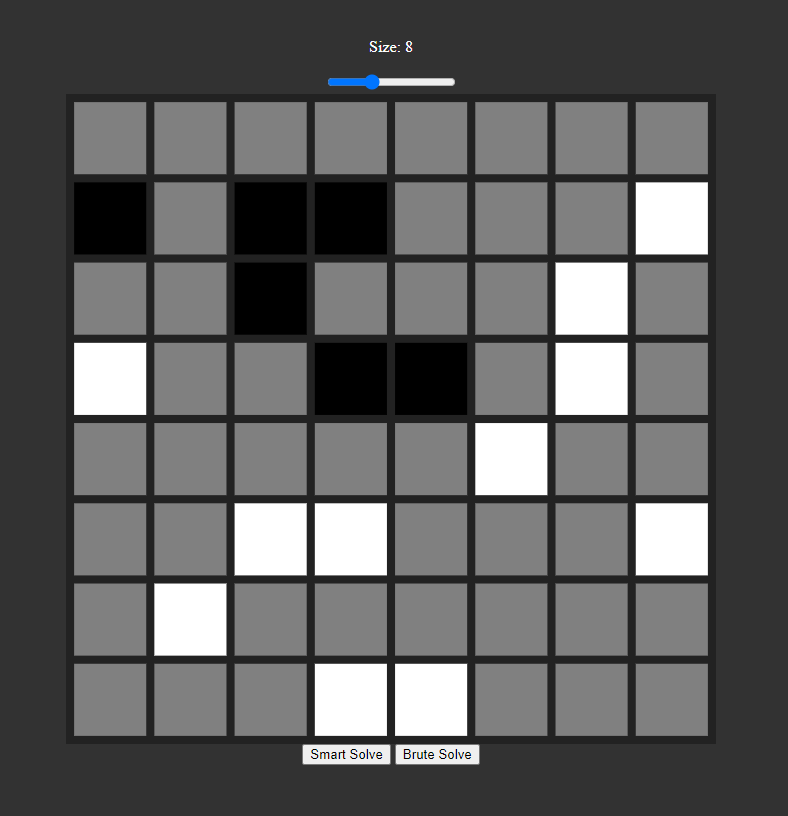
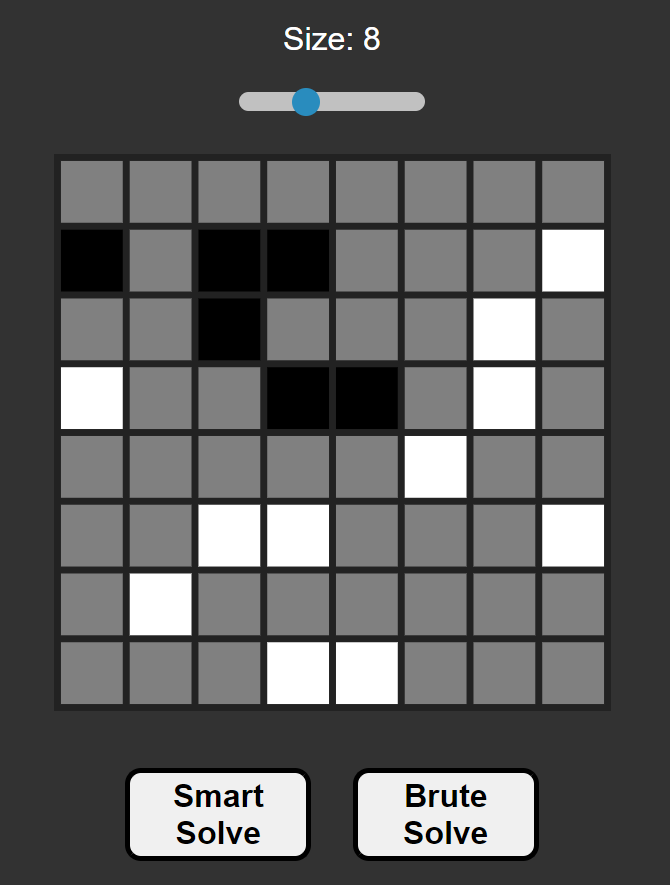
better ui

diff --git a/style.css b/style.css
@@ -1,14 +1,48 @@
 body {
     background-color: rgb(50, 50, 50);
     color: white;
+    font-family: 'Roboto', sans-serif;
     margin: 0;
     display: flex;
     align-items: center;
-    justify-content: center;
+    justify-content: space-around;
     flex-direction: column;
     height: 100vh;
 }
 
+/* #sizeContainer {
+    margin-bottom: 2rem;
+} */
+
 #sizeText {
     text-align: center;
+    font-size: 2rem;
+}
+
+.slider {
+    appearance: none;
+    width: 20vh;
+    height: 2vh;
+    border-radius: 2vh;
+    opacity: 0.7;
+}
+  
+.slider::-webkit-slider-thumb {
+    appearance: none;
+    width: 3vh;
+    height: 3vh;
+    border-radius: 50%; 
+    background: #25b3fa;
+    cursor: pointer;
+}
+
+button {
+    height: 10vh;
+    width: 20vh;
+    margin: 2vh;
+    font-size: 2rem;
+    font-weight: bold;
+    border-radius: 1rem;
+    border-width: 5px;
+    border-color: black;
 }

diff --git a/index.html b/index.html
@@ -9,16 +9,14 @@
 </head>
 <body>
 
-    <div>
-        <div id="sizeInput">
-            <p id="sizeText">Size</p>
-            <input type="range" min="2" max="20" value="8" step="2" id="sizeSlider">
-        </div>
+    <div id="sizeContainer">
+        <p id="sizeText">Size</p>
+        <input type="range" min="2" max="20" value="8" step="2" id="sizeSlider" class="slider">
     </div>
     
     <canvas id="canvas"></canvas>
 
-    <div id="solveButtons">
+    <div id="solveButtonsContainer">
         <button id="smartSolveBtn">Smart Solve</button>
         <button id="bruteSolveBtn">Brute Solve</button>
     </div>

diff --git a/script.js b/script.js
@@ -7,8 +7,8 @@ const bruteSolveBtn = document.getElementById("bruteSolveBtn")
 const canvas = document.getElementById("canvas")
 const ctx = canvas.getContext("2d")
 
-canvas.width = window.innerHeight * 0.7
-canvas.height = window.innerHeight * 0.7
+canvas.width = window.innerHeight * 0.6
+canvas.height = window.innerHeight * 0.6
 
 let size, lineWidth, tileSize, grid
 
@@ -176,7 +176,7 @@ function bruteSolve() {
     }
     draw()
     for (row of grid) {
-        console.log(row)
+        // console.log(row)
     }
 }
 
